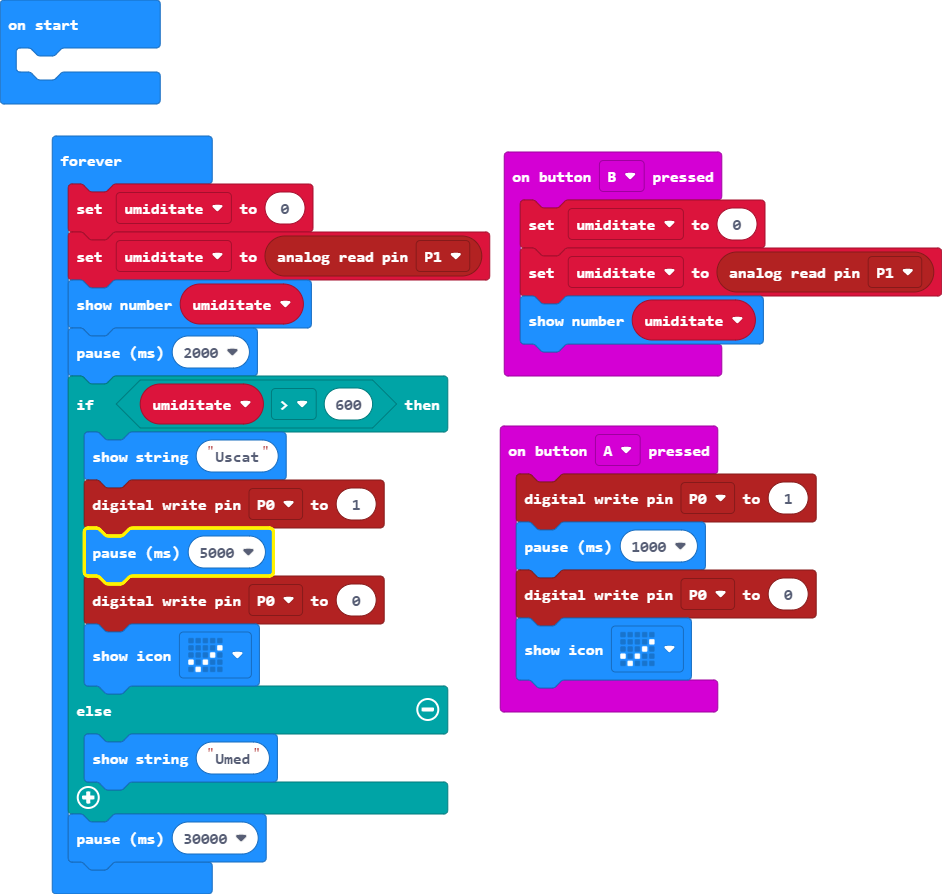
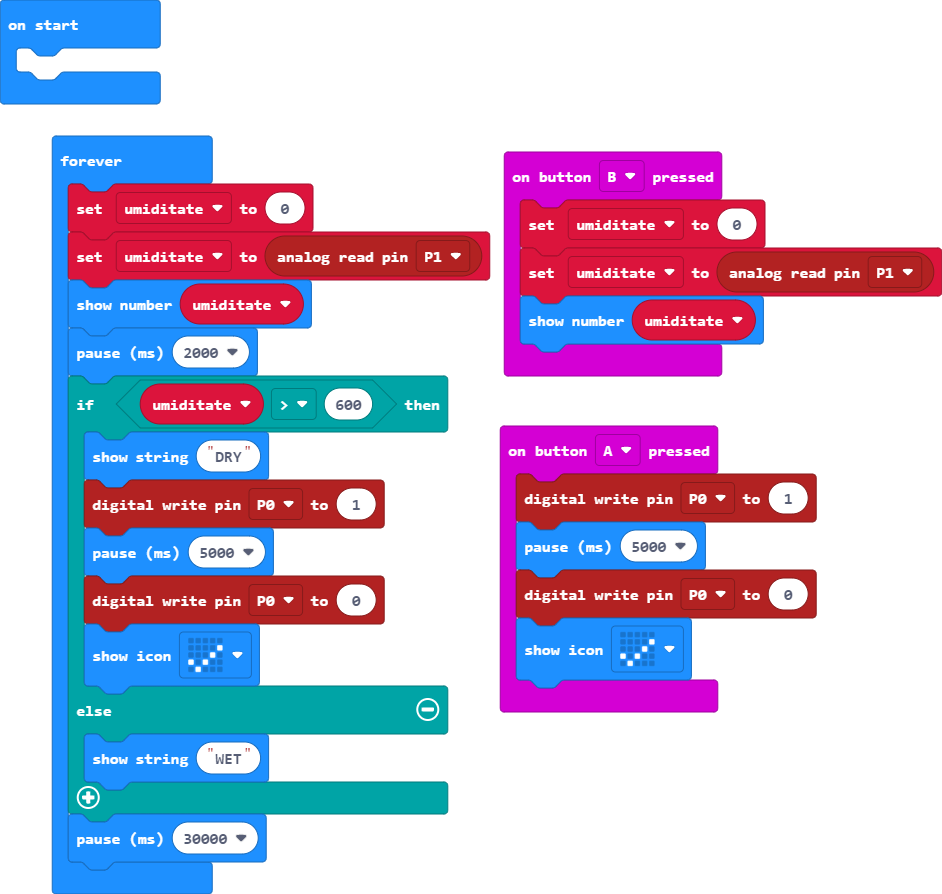
changed to english

diff --git a/main.ts b/main.ts
@@ -1,7 +1,7 @@
 let umiditate = 0
 input.onButtonPressed(Button.A, function () {
     pins.digitalWritePin(DigitalPin.P0, 1)
-    basic.pause(1000)
+    basic.pause(5000)
     pins.digitalWritePin(DigitalPin.P0, 0)
     basic.showIcon(IconNames.Yes)
 })
@@ -16,13 +16,13 @@ basic.forever(function () {
     basic.showNumber(umiditate)
     basic.pause(2000)
     if (umiditate > 600) {
-        basic.showString("Uscat")
+        basic.showString("DRY")
         pins.digitalWritePin(DigitalPin.P0, 1)
         basic.pause(5000)
         pins.digitalWritePin(DigitalPin.P0, 0)
         basic.showIcon(IconNames.Yes)
     } else {
-        basic.showString("Umed")
+        basic.showString("WET")
     }
     basic.pause(30000)
 })
